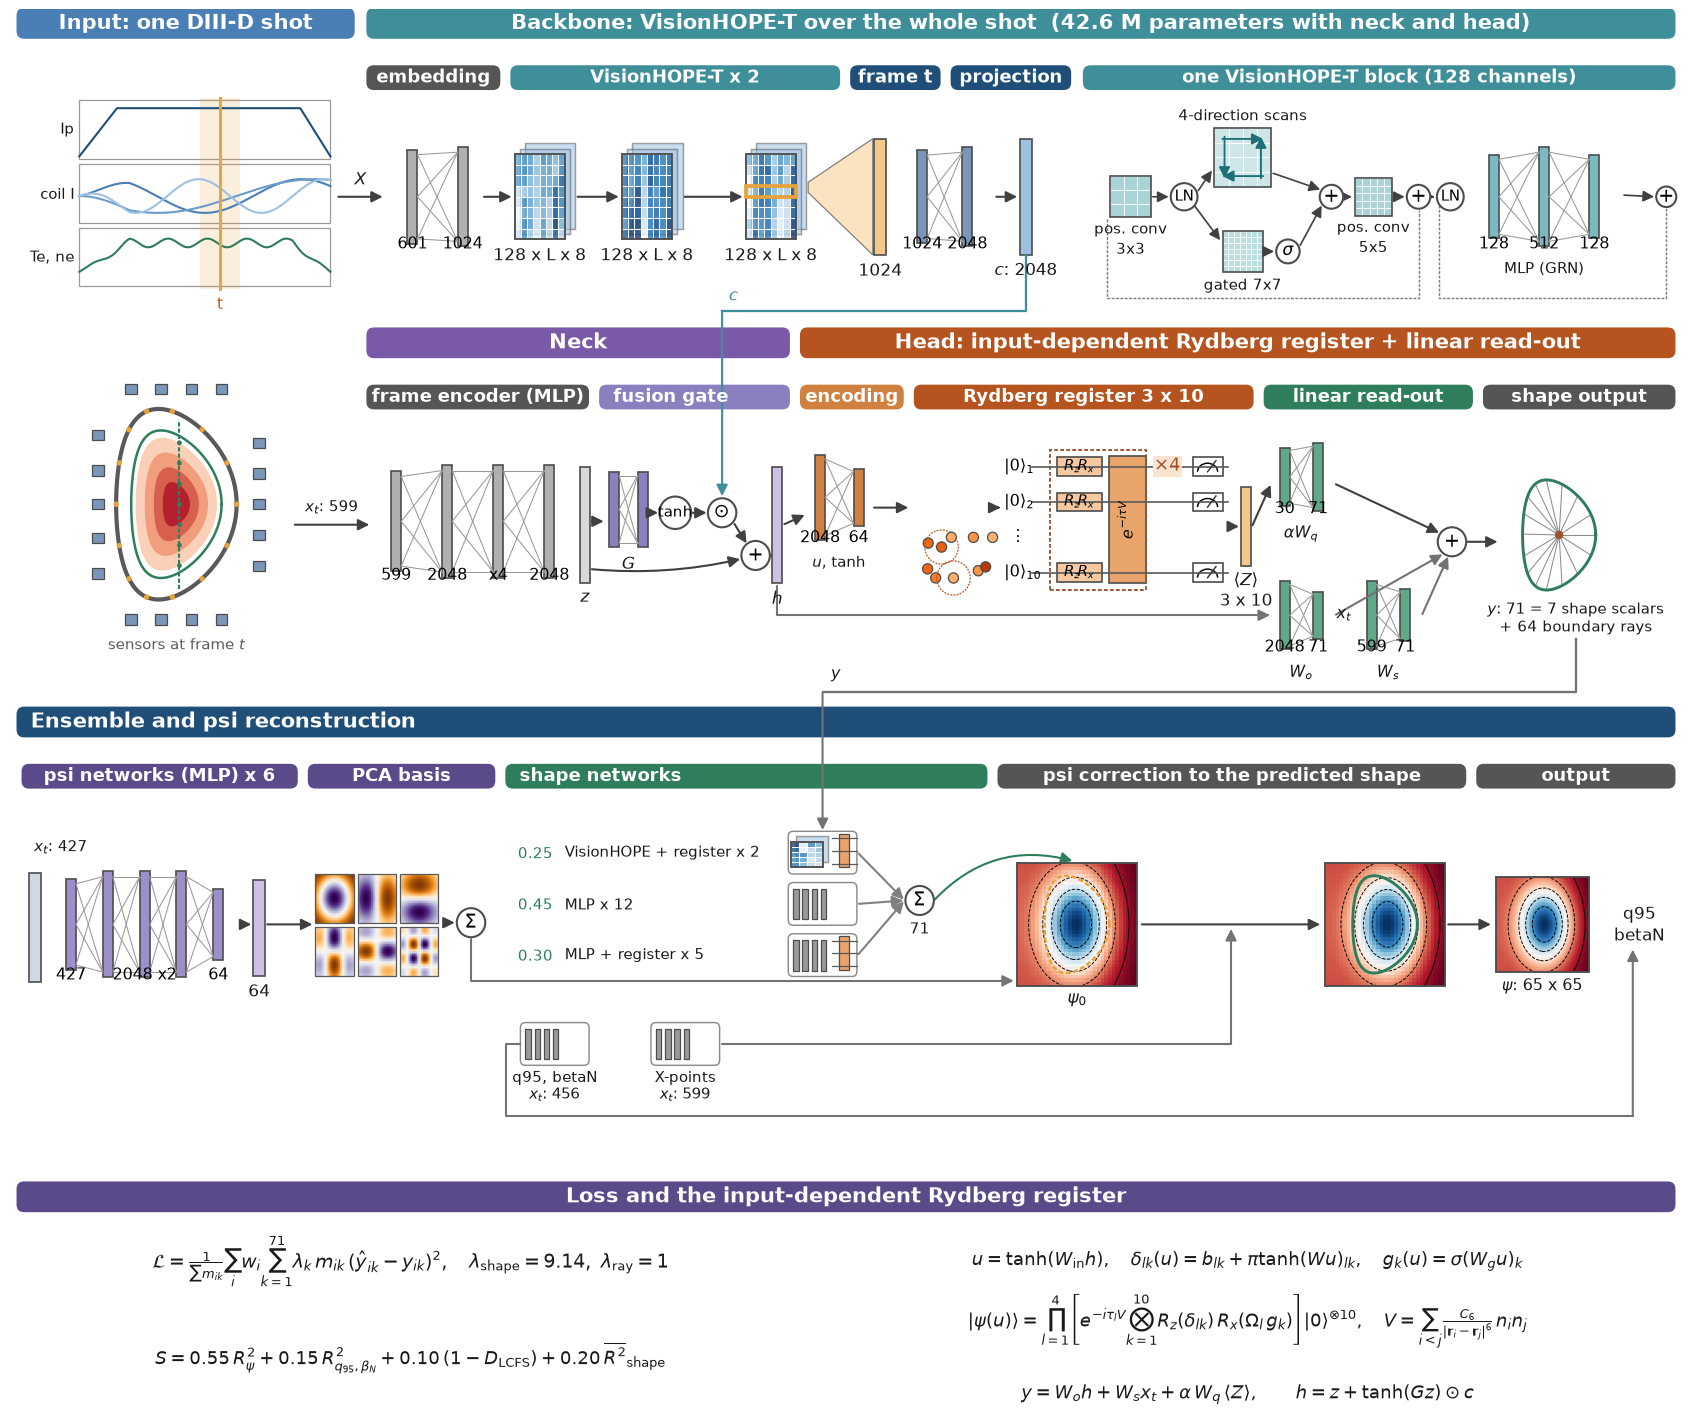
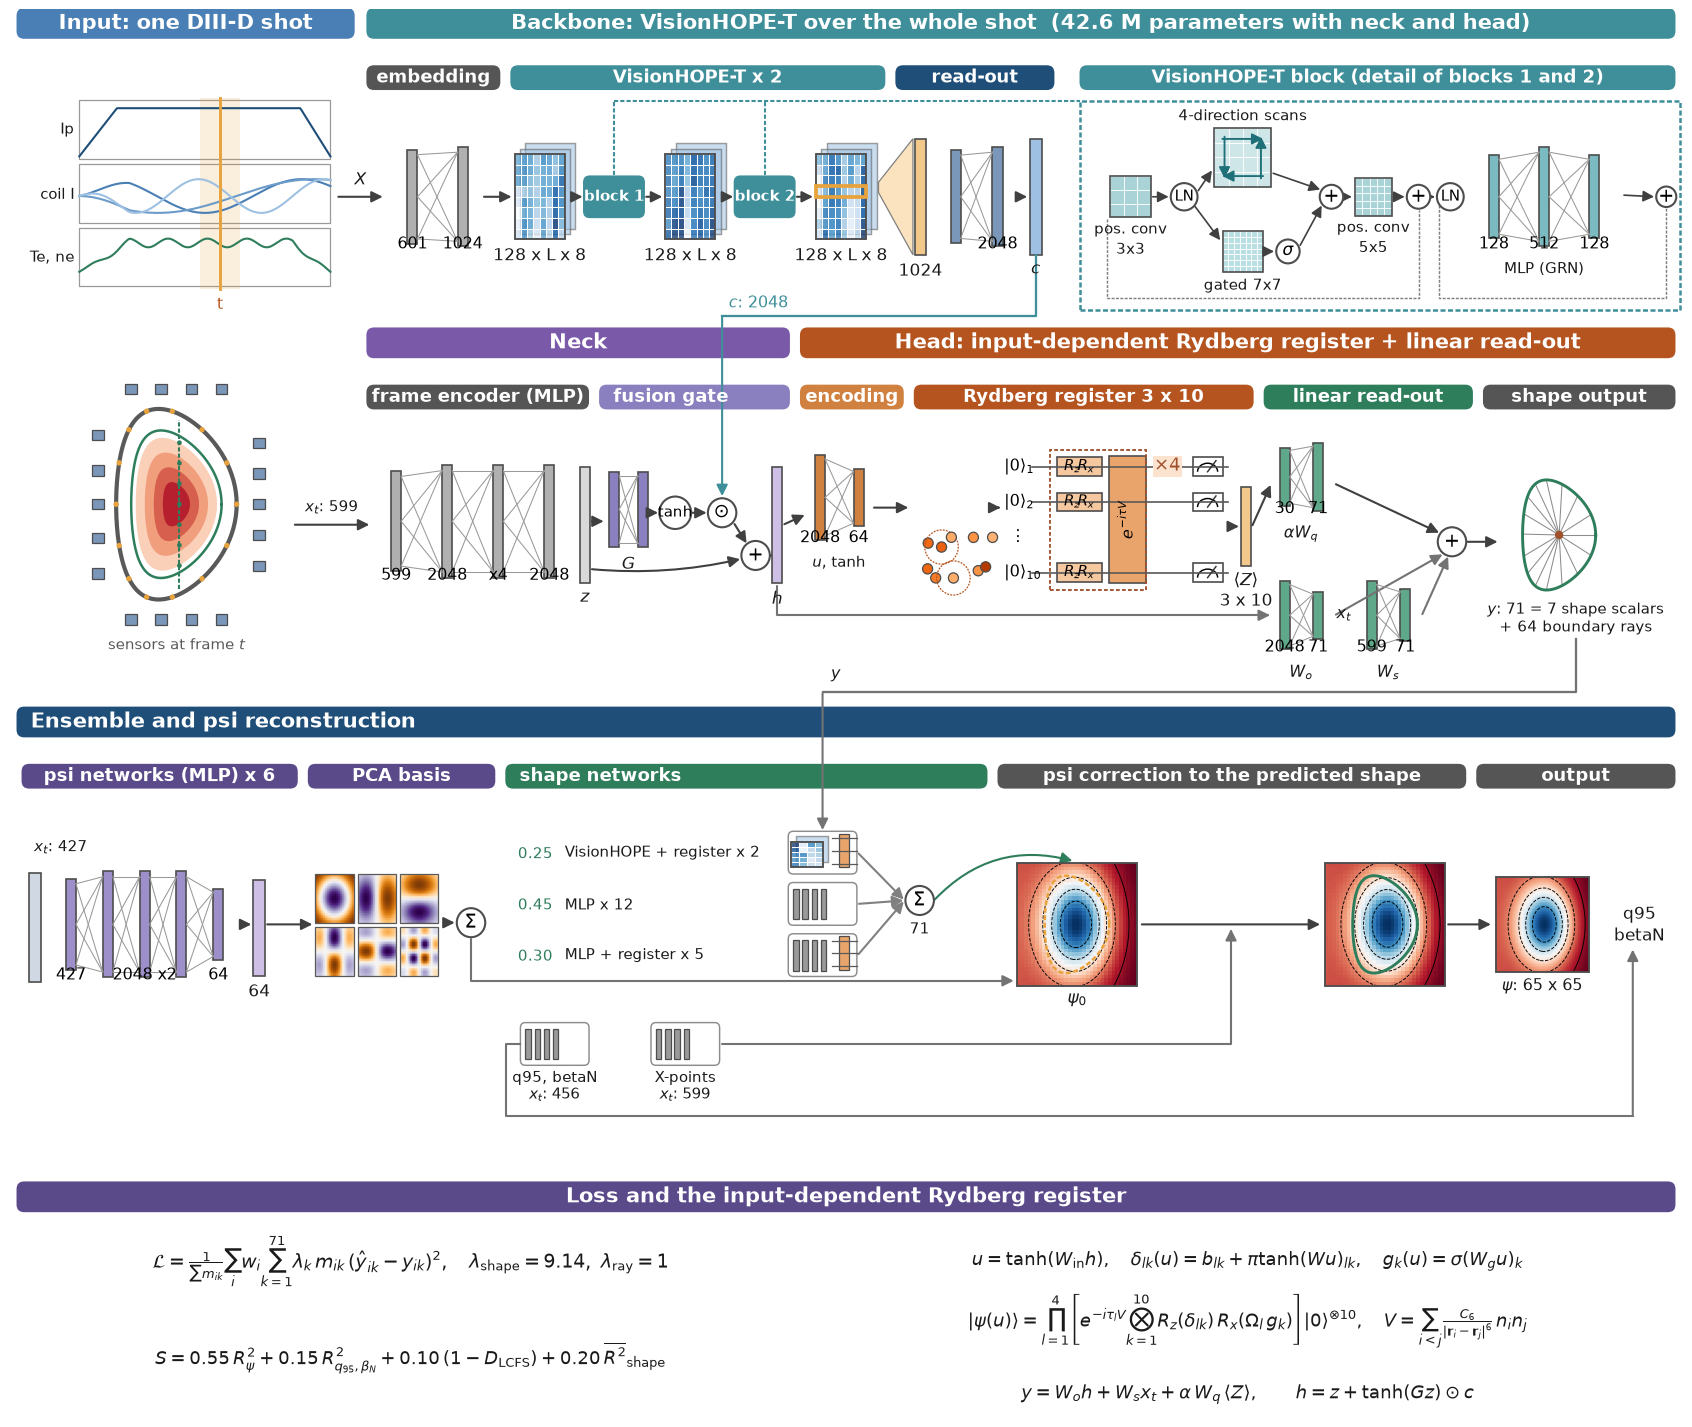
Architecture figure: blocks 1 and 2 drawn on the backbone path and linked to the VisionHOPE-T block detail

diff --git a/repro/fusion/fig_model.py b/repro/fusion/fig_model.py
@@ -288,21 +288,29 @@ def main() -> None:
     # ======================= row 1: backbone
     band(ax, 21.4, 99.5, 79.3, f"Backbone: VisionHOPE-T over the whole shot  ({s['params']} M parameters with neck and head)", C_VH, h=1.7, fs=5.0)
     by, yc = 76.3, 70.0
-    band(ax, 21.4, 29.3, by, "embedding", GREY); band(ax, 30.0, 49.6, by, f"VisionHOPE-T x {s['blocks']}", C_VH)
-    band(ax, 50.3, 55.6, by, "frame t", NAVY); band(ax, 56.3, 63.4, by, "projection", NAVY)
+    band(ax, 21.4, 29.3, by, "embedding", GREY); band(ax, 30.0, 52.3, by, f"VisionHOPE-T x {s['blocks']}", C_VH)
+    band(ax, 53.0, 62.4, by, "read-out", NAVY)
     arrow(ax, (19.6, yc), (22.4, yc)); lab(ax, 21.0, yc + 0.5, "$X$", fs=4.0, va="bottom")
     mlp(ax, 22.6, yc - 3.4, 6.0, 5.8, [s["fin"] + s["extra"], T], fc="#b0b0b0")
     e0 = fmap(ax, 30.2, yc - 2.5, 3.0, 5.0, seed=1); lab(ax, 31.7, yc - 2.8, f"{s['c']} x L x {s['tokens']}")
-    e1 = fmap(ax, 36.6, yc - 2.5, 3.0, 5.0, seed=2); lab(ax, 38.1, yc - 2.8, f"{s['c']} x L x {s['tokens']}")
-    e2 = fmap(ax, 44.0, yc - 2.5, 3.0, 5.0, seed=4, hl=3); lab(ax, 45.5, yc - 2.8, f"{s['c']} x L x {s['tokens']}")
-    arrow(ax, (28.3, yc), (30.1, yc)); arrow(ax, (e0[0] + 0.05, yc), (36.5, yc)); arrow(ax, (e1[0] + 0.05, yc), (43.9, yc))
-    ax.add_patch(Polygon([(e2[0] + 0.1, yc + 0.85), (51.6, yc + 3.4), (51.6, yc - 3.4), (e2[0] + 0.1, yc + 0.25)], fc="#fbe3c0", ec="0.5", lw=0.3))
-    ax.add_patch(Rectangle((51.7, yc - 3.4), 0.7, 6.8, fc="#f3c98b", ec="0.3", lw=0.4)); lab(ax, 52.05, yc - 3.7, f"{T}")
-    mlp(ax, 53.2, yc - 3.4, 5.4, 5.8, [T, W], fc="#7a96b8")
-    vec(ax, 60.4, yc - 3.4, 6.8, fc="#9ec1e3", w=0.7); lab(ax, 60.75, yc - 3.7, f"$c$: {W}")
-    arrow(ax, (58.9, yc), (60.3, yc))
+    e1 = fmap(ax, 39.2, yc - 2.5, 3.0, 5.0, seed=2); lab(ax, 40.7, yc - 2.8, f"{s['c']} x L x {s['tokens']}")
+    e2 = fmap(ax, 48.2, yc - 2.5, 3.0, 5.0, seed=4, hl=3); lab(ax, 49.7, yc - 2.8, f"{s['c']} x L x {s['tokens']}")
+    for k, (x0, nxt) in enumerate(((e0[0], 39.1), (e1[0], 48.1))):        # the two VisionHOPE-T blocks (detail: the framed inset)
+        bx = x0 + 0.5
+        ax.add_patch(FancyBboxPatch((bx, yc - 1.2), 3.6, 2.4, boxstyle="round,pad=0.05,rounding_size=0.4", fc=C_VH, ec="none"))
+        ax.text(bx + 1.8, yc, f"block {k + 1}", ha="center", va="center", fontsize=3.6, color="white", weight="bold")
+        arrow(ax, (x0 + 0.05, yc), (bx, yc)); arrow(ax, (bx + 3.65, yc), (nxt, yc))
+        ax.plot([bx + 1.8, bx + 1.8], [yc + 1.25, 75.6], color=C_VH, lw=0.5, ls=(0, (2, 1)))
+    ax.plot([e0[0] + 2.3, 64.0], [75.6, 75.6], color=C_VH, lw=0.5, ls=(0, (2, 1)))
+    ax.add_patch(Rectangle((64.0, 63.4), 35.8, 12.2, fc="none", ec=C_VH, lw=0.6, ls=(0, (2, 1))))
+    arrow(ax, (28.3, yc), (30.1, yc))
+    ax.add_patch(Polygon([(e2[0] + 0.1, yc + 0.85), (54.0, yc + 3.4), (54.0, yc - 3.4), (e2[0] + 0.1, yc + 0.25)], fc="#fbe3c0", ec="0.5", lw=0.3))
+    ax.add_patch(Rectangle((54.1, yc - 3.4), 0.7, 6.8, fc="#f3c98b", ec="0.3", lw=0.4)); lab(ax, 54.45, yc - 3.7, f"{T}")
+    mlp(ax, 55.3, yc - 3.4, 5.0, 5.8, [T, W], fc="#7a96b8", labels=["", str(W)])
+    vec(ax, 61.0, yc - 3.4, 6.8, fc="#9ec1e3", w=0.7); lab(ax, 61.35, yc - 3.7, "$c$")
+    arrow(ax, (60.4, yc), (60.9, yc))
     # inset: one VisionHOPE-T block
-    band(ax, 64.2, 99.5, by, "one VisionHOPE-T block (128 channels)", C_VH)
+    band(ax, 64.0, 99.5, by, "VisionHOPE-T block (detail of blocks 1 and 2)", C_VH)
     ox, ty = -2.2, yc
     kernel(ax, 68.0 + ox, ty - 1.2, 3, 2.4); lab(ax, 69.2 + ox, ty - 1.5, "pos. conv\n3x3", fs=3.6)
     node(ax, 72.4 + ox, ty, "LN", r=0.8, fs=3.5)
@@ -336,8 +344,8 @@ def main() -> None:
     vec(ax, 45.6, yc - 3.4, 6.8, fc="#cdbfe6", w=0.6); lab(ax, 45.9, yc - 3.7, "$h$")
     arrow(ax, (34.75, yc + 0.2), (35.6, yc + 0.2)); arrow(ax, (38.4, yc + 0.7), (38.85, yc + 0.7)); arrow(ax, (40.75, yc + 0.7), (41.75, yc + 0.7))
     arrow(ax, (34.75, yc - 2.6), (43.75, yc - 2.0), rad=0.08); arrow(ax, (43.3, yc + 0.1), (44.1, yc - 1.15)); arrow(ax, (45.45, yc - 1.8), (45.55, yc - 1.8))
-    ax.plot([60.75, 60.75, 42.6], [yc + 15.8, 63.3, 63.3], color=C_VH, lw=0.55)
-    arrow(ax, (42.6, 63.3), (42.6, yc + 1.6), color=C_VH); lab(ax, 43.0, 63.6, "$c$", fs=4.0, color=C_VH, ha="left", va="bottom")
+    ax.plot([61.35, 61.35, 42.6], [yc + 15.8, 63.0, 63.0], color=C_VH, lw=0.55)
+    arrow(ax, (42.6, 63.0), (42.6, yc + 1.6), color=C_VH); lab(ax, 43.0, 63.3, f"$c$: {W}", fs=3.8, color=C_VH, ha="left", va="bottom")
     mlp(ax, 47.3, yc - 1.4, 4.6, 5.0, [W, s["q_in"]], fc=C_QPU2); lab(ax, 49.6, yc - 1.7, "$u$, tanh", fs=3.6)
     atoms(ax, 53.9, yc - 3.6, 5.2, 3.4)
     circuit(ax, 59.4, yc - 3.4, 13.6, 7.4, layers=s["layers"], atoms=s["atoms"])
